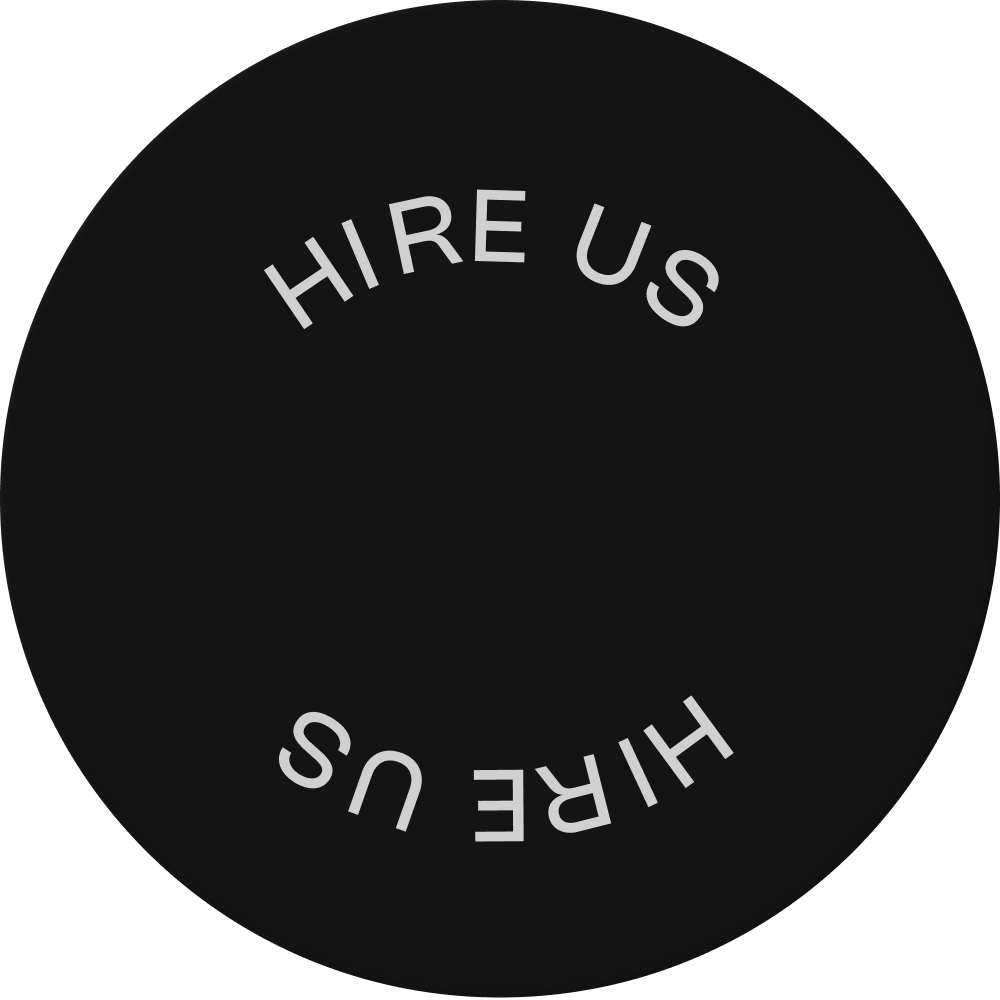
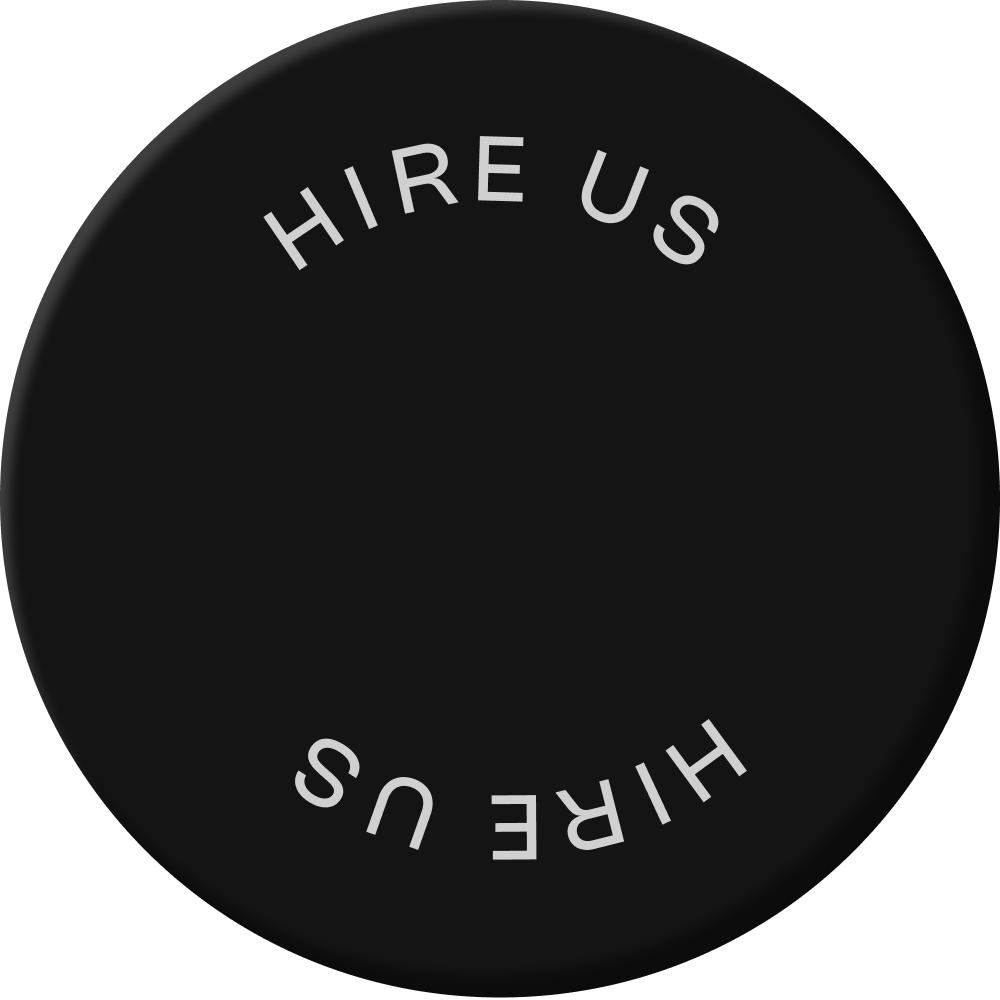
Made the hire us button more highlighted for wider screens, fixed the lagginess in safari by changing the background image to png instead of svg, made the aniimations in safari as smooth as in other browsers by using gsap instead of plain css.

diff --git a/src/App.tsx b/src/App.tsx
@@ -3,13 +3,20 @@ import { Routes, Route } from 'react-router-dom'
 import i18next from 'i18next'
 import Header from './components/header'
 import Footer from './components/footer'
-import InteractiveCursor from './components/interactive-cursor'
 import LandingPage from './pages/landing-page'
 import WebDevelopmentPage from './pages/web-development-page'
 import WebDesignPage from './pages/web-design-page'
 import SeoPage from './pages/seo-page'
-import MaintenanceAndSupportPage from './pages/maintenance-and-support-page'
+import MaintenanceAndSupportPage from './pages/maintenance-page'
 import PageNotFound from './pages/404-page'
+import InteractiveCursorGSAP from './components/interactive-cursor-gsap'
+// import InteractiveCursor from './components/interactive-cursor'
+
+/**
+ * @todo: Make the hire us button look nicer on the desktop.
+ * @todo: Try to fix the lagginess in safari.
+ * @todo: Make the animations in safari as smooth as in chrome.
+ */
 
 const App = () => {
   useEffect(() => {
@@ -23,7 +30,7 @@ const App = () => {
     <>
       <Header />
       <main className="overflow-hidden">
-        <InteractiveCursor />
+        <InteractiveCursorGSAP />
         <Routes>
           <Route path="/" element={<LandingPage />} />
           <Route path="web-development" element={<WebDevelopmentPage />} />

diff --git a/src/components/interactive-cursor-gsap.tsx b/src/components/interactive-cursor-gsap.tsx
@@ -1,0 +1,45 @@
+import { useEffect, useRef } from 'react'
+import { useSelector } from 'react-redux'
+import gsap from 'gsap'
+
+type CursorState = {
+  cursor: {
+    size: number
+  }
+}
+
+const InteractiveCursorGSAP = () => {
+  const cursorSize = useSelector((state: CursorState) => state.cursor.size)
+  const ref = useRef(null)
+
+  useEffect(() => {}, [])
+
+  useEffect(() => {
+    const handleMouseMovement = (e: MouseEvent) => {
+      if (window.innerWidth >= 1280) {
+        gsap.to(ref.current, {
+          translateX: e.clientX - cursorSize / 2,
+          translateY: e.clientY - cursorSize / 2,
+          duration: 0.05
+        })
+      }
+    }
+
+    window.addEventListener('mousemove', handleMouseMovement)
+
+    return () => window.removeEventListener('mousemove', handleMouseMovement)
+  }, [cursorSize])
+
+  return (
+    <div
+      ref={ref}
+      className="rounded-full bg-white fixed z-50 pointer-events-none transition-all duration-[0.05] ease-out mix-blend-difference xl:block hidden opacity-90 transform-gpu"
+      style={{
+        width: cursorSize,
+        height: cursorSize
+      }}
+    ></div>
+  )
+}
+
+export default InteractiveCursorGSAP

diff --git a/src/components/footer.tsx b/src/components/footer.tsx
@@ -21,13 +21,14 @@ const Footer = () => {
   ]
 
   return (
-    <footer className="max-w-[1400px] mx-auto xl:px-[75px] px-[18px] pt-10 pb-5 text-white">
+    <footer className="max-w-[1400px] mx-auto xl:px-[75px] px-[18px] pt-10 pb-5 text-white transform-gpu">
       <img
         src="./src/assets/media-unbothered.svg"
         alt="Media Unbothered"
         className="w-screen -z-50"
         onMouseOver={() => setCursorSize(300)}
         onMouseLeave={() => setCursorSize(40)}
+        loading="lazy"
       />
 
       <div className="mt-[50px] flex md:flex-row flex-col justify-between items-center gap-[10px]">
@@ -54,7 +55,7 @@ const Footer = () => {
               onMouseOver={() => setCursorSize(60)}
               onMouseLeave={() => setCursorSize(40)}
             >
-              <img src={social.imageSrc} alt={social.alt} />
+              <img src={social.imageSrc} alt={social.alt} loading="lazy" />
             </Link>
           ))}
         </div>

diff --git a/src/components/header.tsx b/src/components/header.tsx
@@ -19,7 +19,7 @@ const Header = () => {
   ]
 
   return (
-    <header className="w-screen absolute z-50">
+    <header className="w-screen absolute z-50 transform-gpu">
       <div className="max-w-[1400px] h-[75px] mx-auto xl:px-[75px] px-[18px] text-white flex justify-between items-center transition-[padding] duration-500">
         <div className="sm:static absolute left-0 sm:w-auto w-screen text-center">
           <Link
@@ -50,7 +50,12 @@ const Header = () => {
               >
                 {t(link.title)}
               </Link>
-              <img src="./src/assets/ellipse.svg" alt="" className="-z-50" />
+              <img
+                src="./src/assets/ellipse.svg"
+                alt=""
+                className="-z-50"
+                loading="lazy"
+              />
             </Fragment>
           ))}
           <LanguageDropdownMenu />

diff --git a/src/lib/i18next.ts b/src/lib/i18next.ts
@@ -1,6 +1,5 @@
 import i18next from 'i18next'
 import { initReactI18next } from 'react-i18next'
-// import LanguageDetector from 'i18next-browser-languagedetector'
 import englishTranslation from '../languages/en.json'
 import romanianTranslation from '../languages/ro.json'
 
@@ -10,19 +9,19 @@ const resources = {
   },
   ro: {
     translation: romanianTranslation
+  },
+  ru: {
+    translation: romanianTranslation
   }
 }
 
-i18next
-  // .use(LanguageDetector)
-  .use(initReactI18next)
-  .init({
-    resources,
-    lng: 'en',
-    fallbackLng: 'en',
-    interpolation: {
-      escapeValue: false
-    }
-  })
+i18next.use(initReactI18next).init({
+  resources,
+  lng: 'en',
+  fallbackLng: 'en',
+  interpolation: {
+    escapeValue: false
+  }
+})
 
 export default i18next

diff --git a/src/pages/maintenance-page/sections/maintenance-cover-section.tsx b/src/pages/maintenance-page/sections/maintenance-cover-section.tsx
@@ -11,11 +11,12 @@ const MaintenanceCoverSection = () => {
     <section className="xl:h-screen h-full pb-[50px] pt-[120px] flex flex-col justify-center">
       <div className="flex flex-col ">
         <img
-          src="./src/assets/service-header-texts/maintenance.svg"
+          src={`./src/assets/service-header-texts/maintenance.svg`}
           alt="Media Unbothered"
           className="self-start xl:h-[256px] h-[18.28vw]"
           onMouseOver={() => setCursorSize(300)}
           onMouseLeave={() => setCursorSize(40)}
+          loading="lazy"
         />
         <h1 className="xl:text-[4rem] sm:text-[5vw] text-[28px] font-medium leading-normal">
           {t('with Media Unbothered.')}

diff --git a/src/components/hire-us-button.tsx b/src/components/hire-us-button.tsx
@@ -13,10 +13,12 @@ const HireUsButton = () => {
           alt="Hire us"
           onMouseOver={() => setCursorSize(150)}
           onMouseLeave={() => setCursorSize(40)}
+          loading="lazy"
         />
         <img
           src="./src/assets/hire-us-arrow.svg"
           className="absolute pointer-events-none"
+          loading="lazy"
         />
       </GsapMagnetic>
     </div>

diff --git a/src/pages/web-design-page/sections/web-design-cover-section.tsx b/src/pages/web-design-page/sections/web-design-cover-section.tsx
@@ -16,6 +16,7 @@ const WebDesignCoverSection = () => {
           className="self-start xl:h-[256px] h-[18.28vw]"
           onMouseOver={() => setCursorSize(300)}
           onMouseLeave={() => setCursorSize(40)}
+          loading="lazy"
         />
         <h1 className="xl:text-[4rem] sm:text-[5vw] text-[28px] font-medium leading-normal">
           {t('with Media Unbothered.')}

diff --git a/src/pages/web-development-page/sections/wev-dev-cover-section.tsx b/src/pages/web-development-page/sections/wev-dev-cover-section.tsx
@@ -16,6 +16,7 @@ const WebDevCoverSection = () => {
           className="self-start xl:h-[256px] h-[18.28vw]"
           onMouseOver={() => setCursorSize(300)}
           onMouseLeave={() => setCursorSize(40)}
+          loading="lazy"
         />
         <h1 className="xl:text-[4rem] sm:text-[5vw] text-[28px] font-medium leading-normal">
           {t('with Media Unbothered.')}

diff --git a/src/pages/seo-page/sections/seo-cover-section.tsx b/src/pages/seo-page/sections/seo-cover-section.tsx
@@ -16,6 +16,7 @@ const SeoCoverSection = () => {
           className="self-start xl:h-[256px] h-[18.28vw]"
           onMouseOver={() => setCursorSize(300)}
           onMouseLeave={() => setCursorSize(40)}
+          loading="lazy"
         />
         <h1 className="xl:text-[4rem] sm:text-[5vw] text-[28px] font-medium leading-normal">
           {t('with Media Unbothered.')}

diff --git a/src/pages/landing-page/sections/cover-section.tsx b/src/pages/landing-page/sections/cover-section.tsx
@@ -19,6 +19,7 @@ const CoverSection = () => {
           className="w-screen"
           onMouseOver={() => setCursorSize(300)}
           onMouseLeave={() => setCursorSize(40)}
+          loading="lazy"
         />
         <h1 className="xl:text-[4rem] sm:text-[5vw] text-[28px] font-medium leading-normal">
           {t('we defy the odds.')}

diff --git a/src/styles/index.css b/src/styles/index.css
@@ -67,7 +67,8 @@ body {
   background-color: #141414;
   text-rendering: geometricPrecision;
 
-  background-image: url('./src/assets/Background.svg');
+  /* background-image: url('./src/assets/Background.svg'); */
+  background-image: url('./src/assets/Background.png');
   background-repeat: no-repeat;
   background-size: cover;
 }
